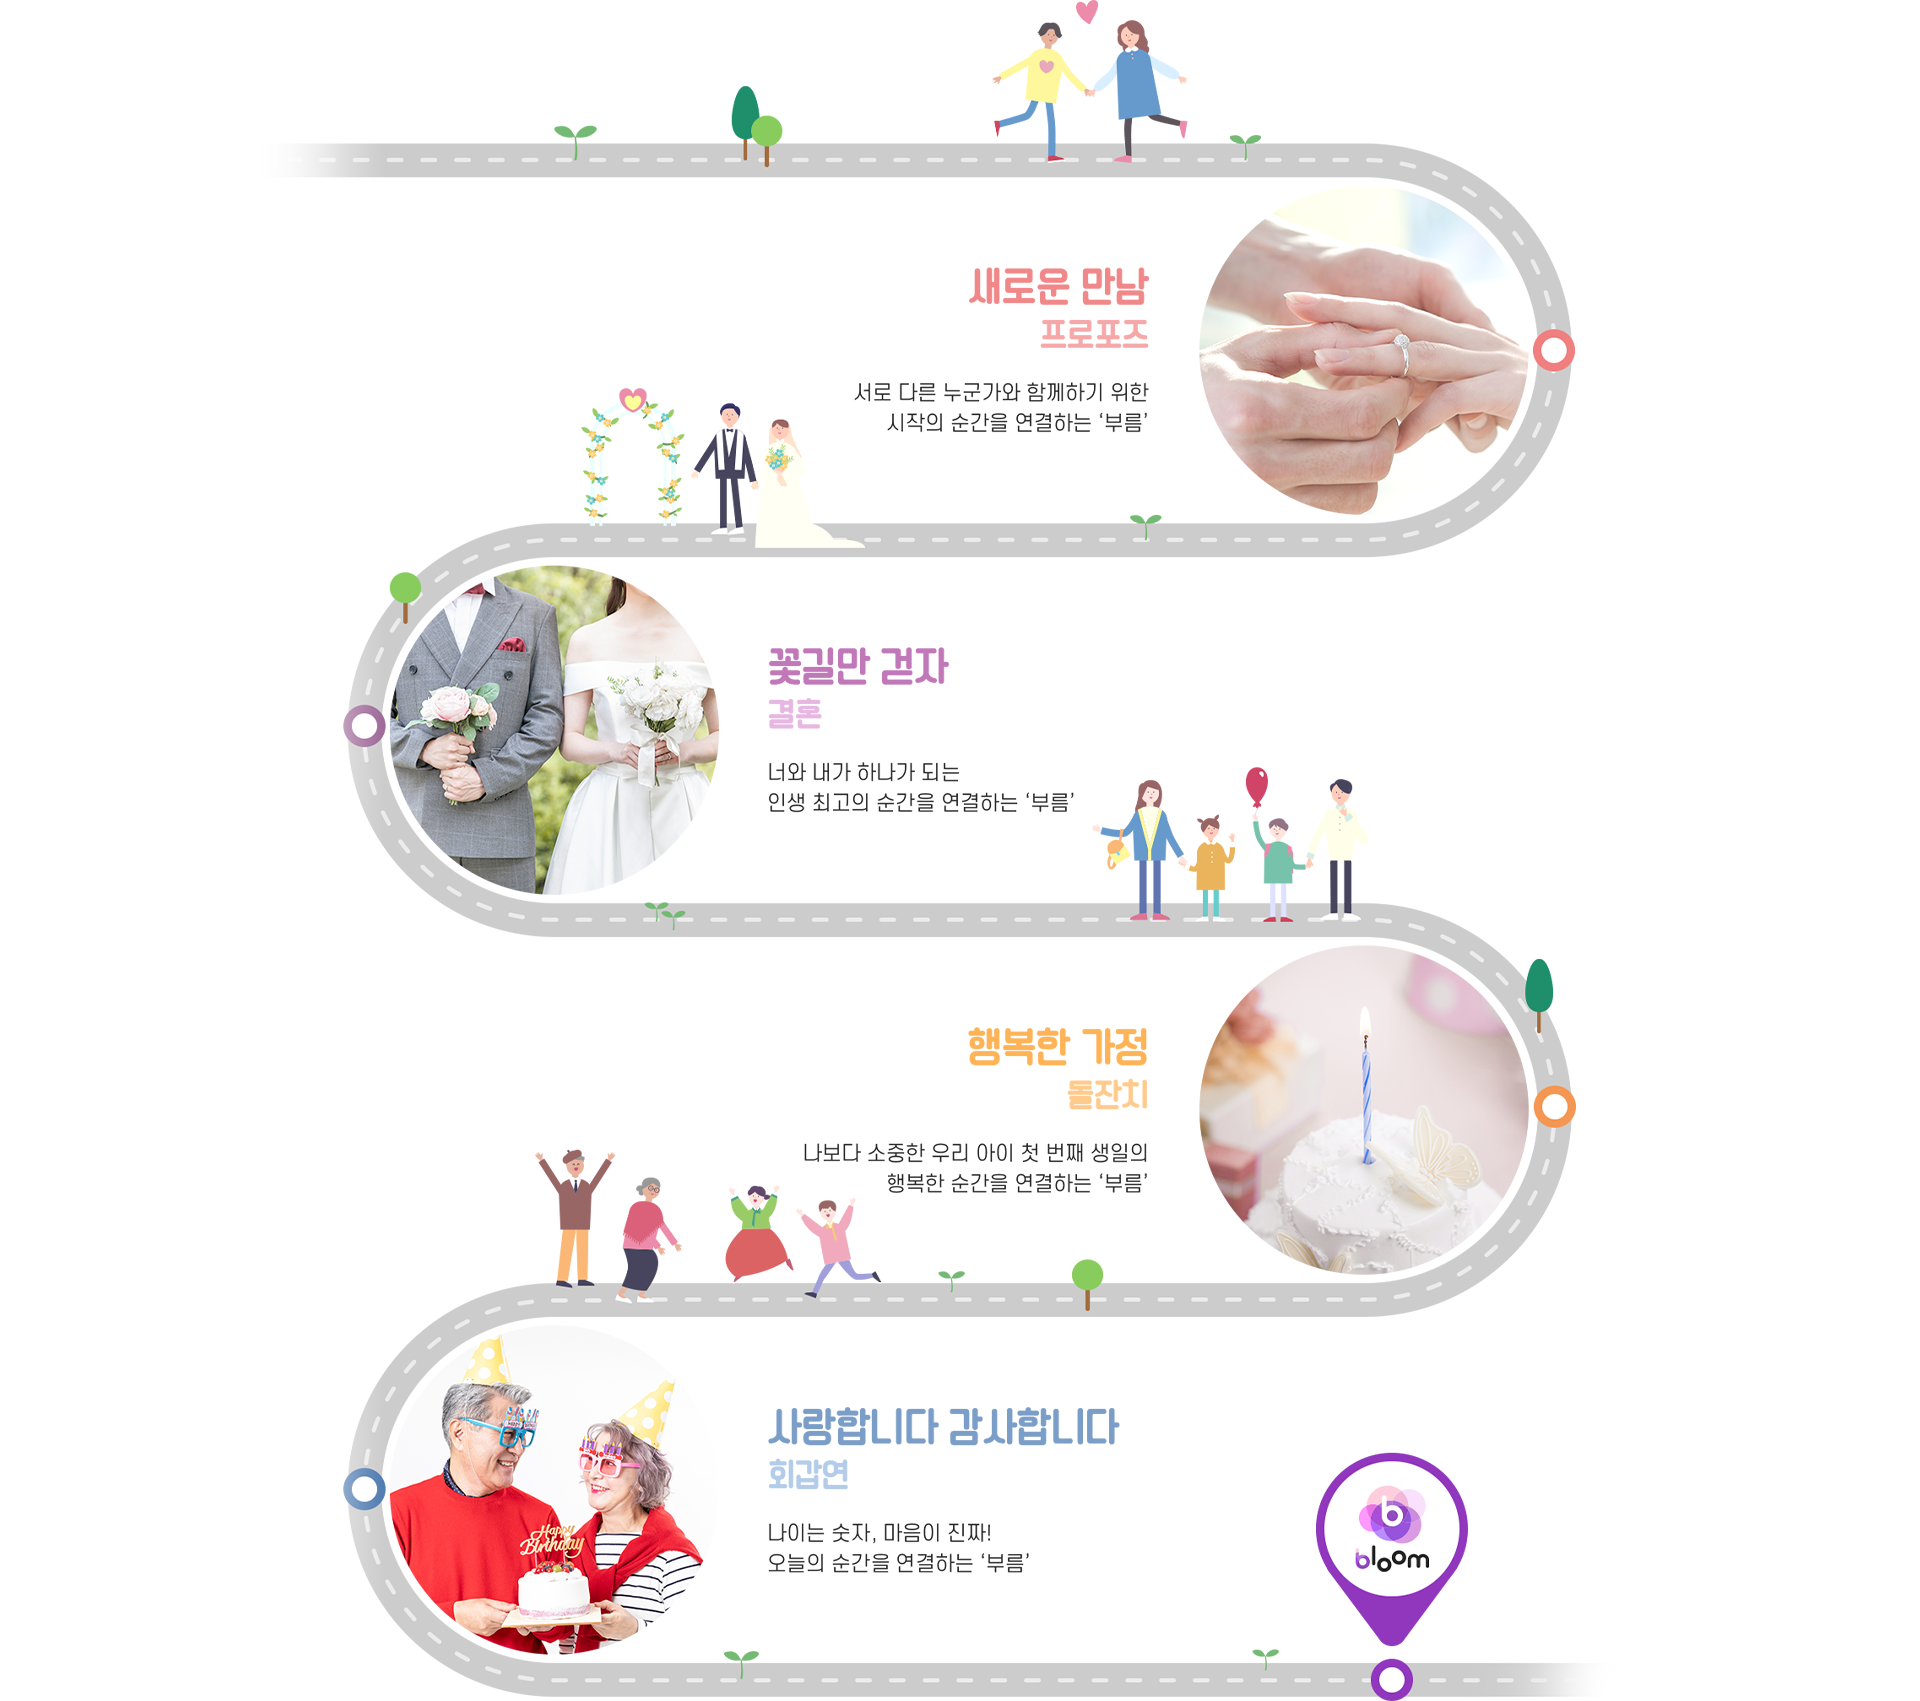
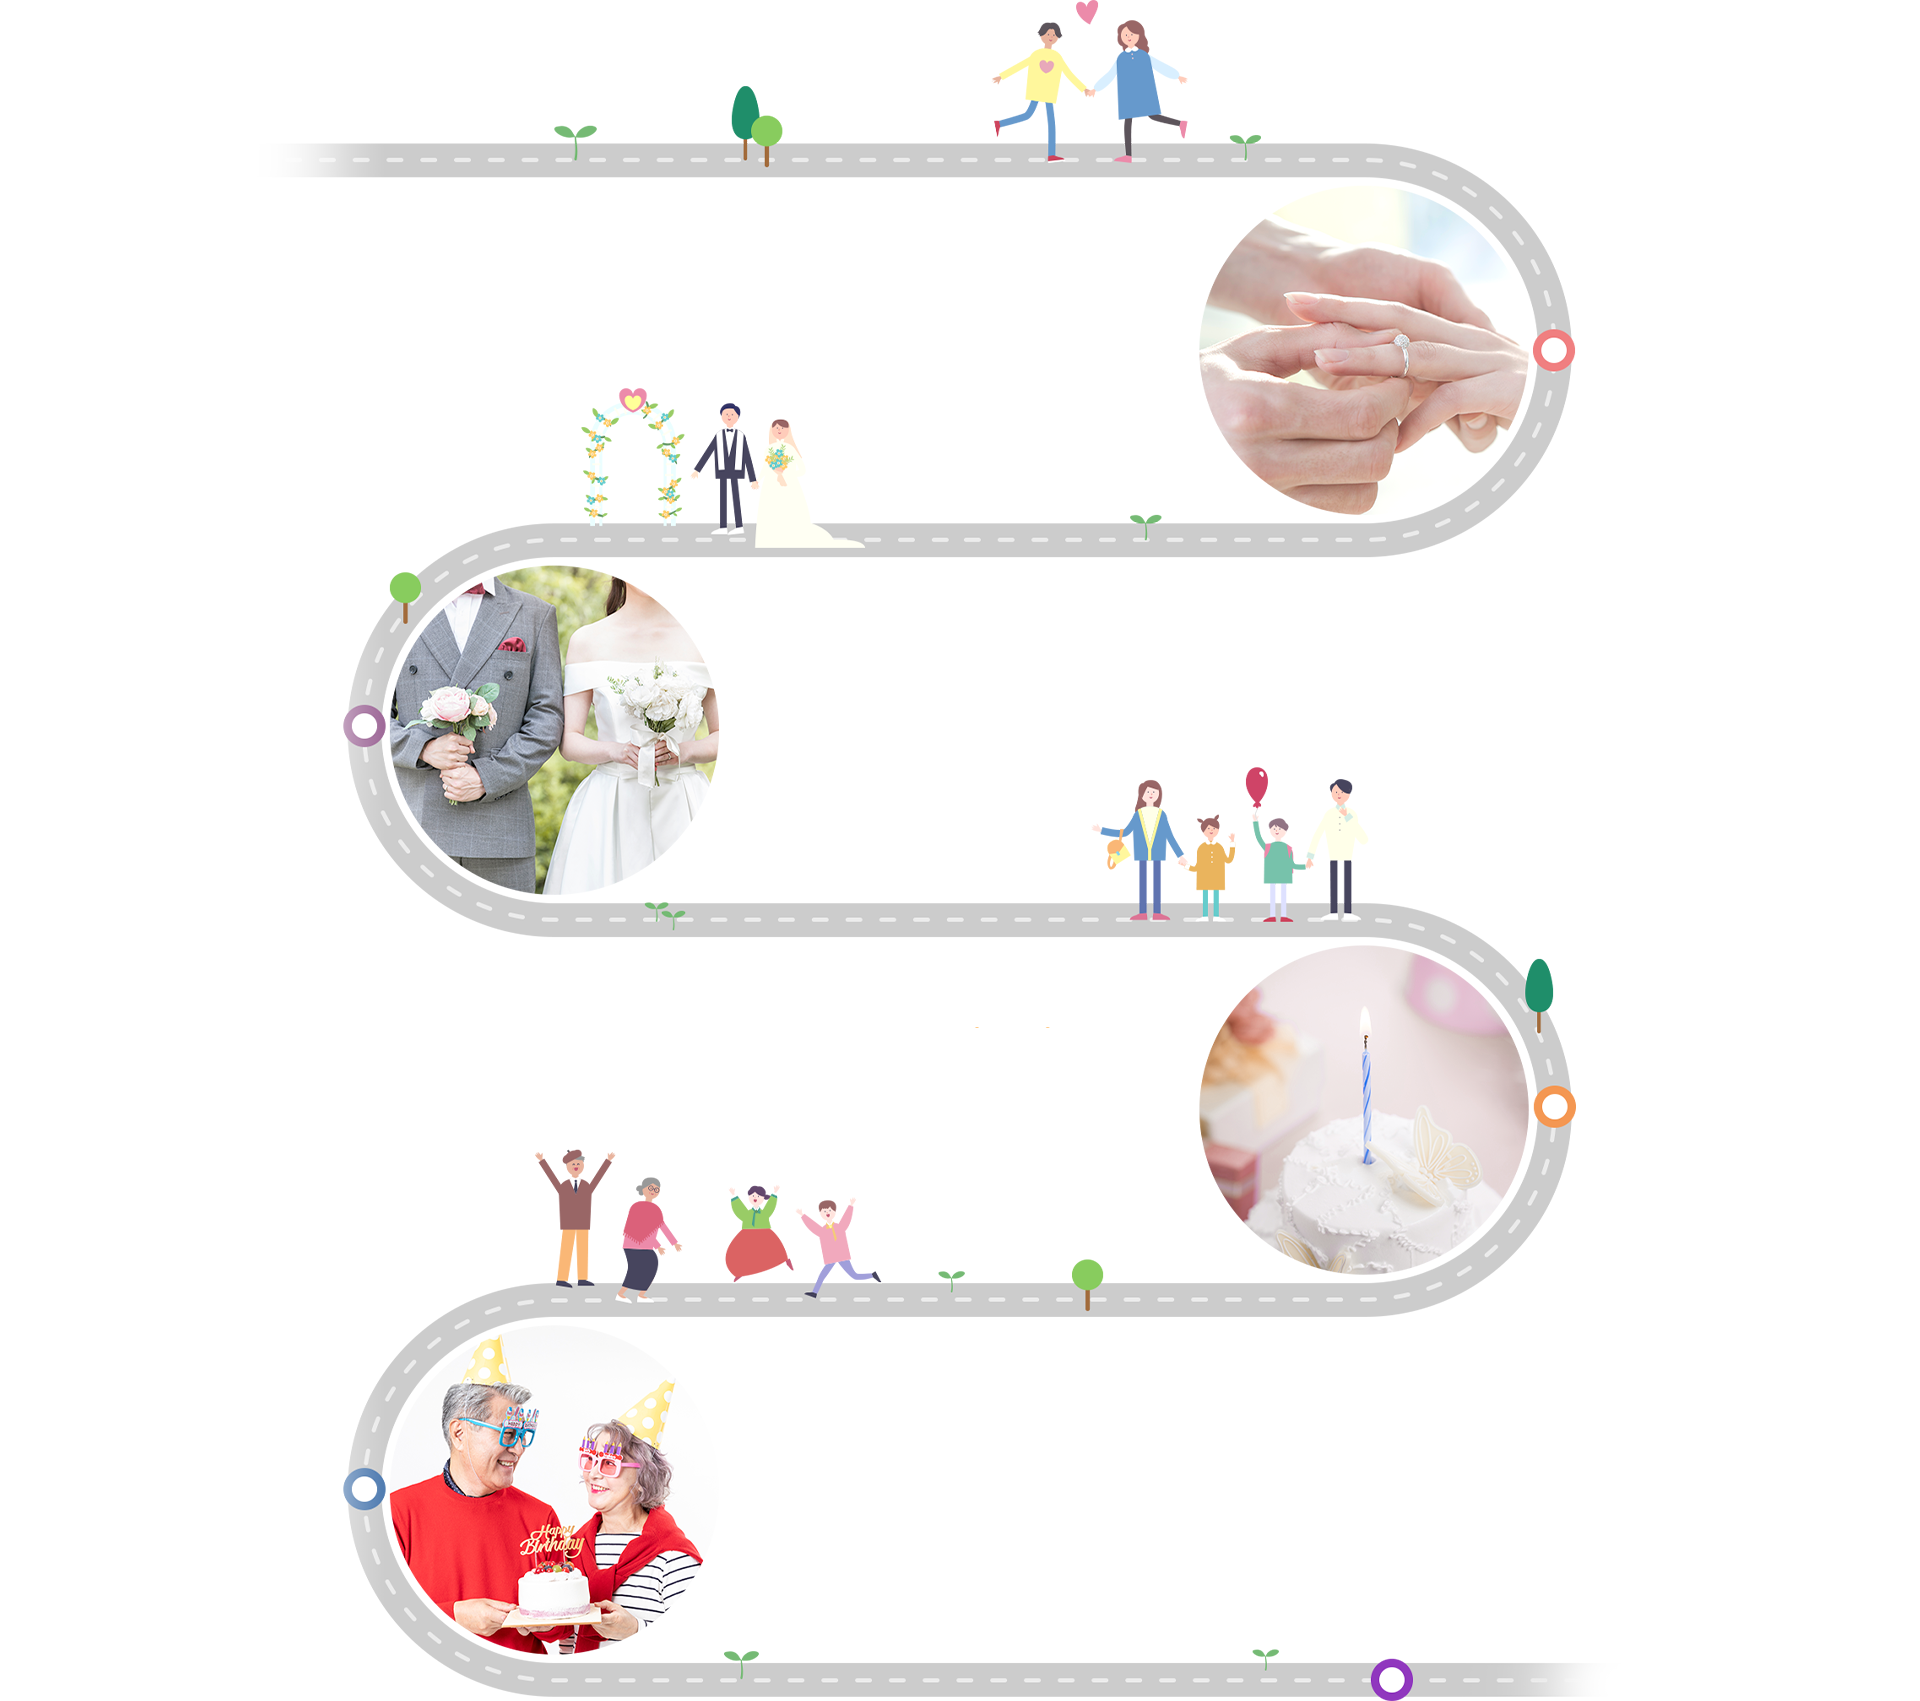
test

diff --git a/index.html b/index.html
@@ -90,7 +90,11 @@
                     </div>
 
                     <ul class="about_list">
-                        <li>
+                        <li 
+                            data-aos="fade-up"
+                            data-aos-delay="300"
+                            data-aos-easing="ease-in-out"
+                        >
                             <img class="list_img" src="img/about_1.png">
                             <span>As one wants</span>
                             <img class="line" src="img/line.png">
@@ -100,7 +104,11 @@
                                 서비스를 준비합니다.<br>
                             </p>
                         </li>
-                        <li>
+                        <li
+                            data-aos="fade-up"
+                            data-aos-delay="400"
+                            data-aos-easing="ease-in-out"
+                        >
                             <img class="list_img" src="img/about_2.png">
                             <span>Direct Design</span>
                             <img class="line" src="img/line.png">
@@ -111,7 +119,11 @@
                                 만들어 낼 수 있습니다.<br>
                             </p>
                         </li>
-                        <li>
+                        <li
+                            data-aos="fade-up"
+                            data-aos-delay="500"
+                            data-aos-easing="ease-in-out"
+                        >
                             <img class="list_img" src="img/about_3.png">
                             <span>My own world</span>
                             <img class="line" src="img/line.png">
@@ -121,7 +133,11 @@
                                 세상을 만들겠습니다.<br>
                             </p>
                         </li>
-                        <li>
+                        <li
+                            data-aos="fade-up"
+                            data-aos-delay="600"
+                            data-aos-easing="ease-in-out"
+                        >
                             <img class="list_img" src="img/about_4.png">
                             <span>We are</span>
                             <img class="line" src="img/line.png">
@@ -135,7 +151,7 @@
                 </div> <!-- e: about -->
 
                 <div class="made box_width">
-                    <div class="title_box">
+                    <div class="title_box" data-500="left:-100px;opacity:0" data-1000="left:0px;opacity:1">
                         <p class="sub">a once in a lifetime</p>
                         <h2 class="title">Made with Bloom</h2>
                         <img src="img/leaf.png">
@@ -146,7 +162,7 @@
                             지원하고 함께하는 플랫폼 입니다.<br>
                         </div>
                     </div>
-                    <div class="made_img">
+                    <div class="made_img" data-500="top:500px;opacity:0" data-700="top:96px;opacity:1" data-2100="top:-0px;">
                         <img src="img/made.jpg">
                     </div>
                 </div> <!-- e: made -->
@@ -155,8 +171,22 @@
                         <p class="sub">Circle of Life</p>
                         <h2 class="title">인생을 살아가는 평범한 우리 이야기</h2>
                     </div>
-                    <div class="story_img">
-                        <img src="img/story.png">
+                    <div class="story_img" data-1350="opacity:0;top:500px" data-1600="opacity:1;top:0">
+                        <div data-1700="left:1000px;opacity:0" data-2000="left:850px;opacity:1">
+                            <img src="img/story01.png" />
+                        </div>
+                        <div data-2030="left:500px;opacity:0" data-2300="left:768px;opacity:1">
+                            <img src="img/story02.png" />
+                        </div>
+                        <div data-2300="left:1000px;opacity:0" data-2830="left:800px;opacity:1">
+                            <img src="img/story03.png" />
+                        </div>
+                        <div data-2900="left:500px;opacity:0" data-3150="left:767;opacity:1">
+                            <img src="img/story04.png" />
+                        </div>
+                        <div data-3150="bottom:0px;opacity:0" data-3450="top:1453px;opacity:1">
+                            <img src="img/story05.png" />
+                        </div>
                     </div>
                 </div> <!-- e: story -->
             </div> <!-- section -->
@@ -179,7 +209,7 @@
                 </div>
             </div>  e: service -->
 
-            <div class="bloom box_width">
+            <div class="bloom box_width" data-3200="margin-top:1000px" data-3500="margin-top:0;">
                 <div class="title_box">
                     <p class="sub">소중한 사람들과 행복한 시간</p>
                     <h2 class="title">'부름'에서 연결해 드립니다</h2>
@@ -187,37 +217,61 @@
                 </div>
 
                 <ul class="bloom_list">
-                    <li>
+                    <li
+                        data-aos="fade-up"
+                        data-aos-delay="200"
+                        data-aos-easing="ease-in-out"
+                    >
                         <img src="img/wedding.jpg">
                         <div class="bloom_text">
                             Wedding
                         </div>
                     </li>
-                    <li>
+                    <li
+                        data-aos="fade-up"
+                        data-aos-delay="300"
+                        data-aos-easing="ease-in-out"
+                    >
                         <img src="img/party.jpg">
                         <div class="bloom_text">
                             Party
                         </div>
                     </li>
-                    <li>
+                    <li
+                        data-aos="fade-up"
+                        data-aos-delay="400"
+                        data-aos-easing="ease-in-out"
+                    >
                         <img src="img/meeting.jpg">
                         <div class="bloom_text">
                             Meeting
                         </div>
                     </li>
-                    <li>
+                    <li
+                        data-aos="fade-up"
+                        data-aos-delay="500"
+                        data-aos-easing="ease-in-out"
+                    >
                         <img src="img/restaurant.jpg">
                         <div class="bloom_text">
                             Restaurant
                         </div>
                     </li>
-                    <li>
+                    <li
+                        data-aos="fade-up"
+                        data-aos-delay="500"
+                        data-aos-easing="ease-in-out"
+                    >
                         <img src="img/event.jpg">
                         <div class="bloom_text">
                             Event
                         </div>
                     </li>
-                    <li>    
+                    <li
+                        data-aos="fade-up"
+                        data-aos-delay="600"
+                        data-aos-easing="ease-in-out"
+                    >    
                         <p>
                             Preparing<br>
                             Category
@@ -228,7 +282,11 @@
                             Preparing
                         </div>
                     </li>
-                    <li>
+                    <li
+                        data-aos="fade-up"
+                        data-aos-delay="700"
+                        data-aos-easing="ease-in-out"
+                    >
                         <p>
                             Preparing<br>
                             Category
@@ -238,7 +296,11 @@
                             Preparing
                         </div>
                     </li>
-                    <li>
+                    <li
+                        data-aos="fade-up"
+                        data-aos-delay="800"
+                        data-aos-easing="ease-in-out"
+                    >
                         <p>
                             Preparing<br>
                             Category
@@ -279,9 +341,9 @@
                 </div>
             </div>  e: history -->
 
-            <div class="app_wrap wrap_width">
+            <div class="app_wrap wrap_width" data-4500="margin-top:500px;" data-4900="margin-top:0;">
                 <div class="app box_width">
-                    <div class="title_box">
+                    <div class="title_box" data-4700="right:-1000px;opacity:0" data-5000="right:0;opacity:1" style="position:absolute">
                         <p class="sub">introduce App</p>
                         <h2 class="title">'Bloom' Application</h2>
                         
@@ -324,16 +386,21 @@
             <div class="rights">© 2020 <span>NAMOK</span> . All Rights Reserved</div>
         </footer> <!-- e: footer -->
     </div> <!-- e: wrap -->
+    <link href="https://unpkg.com/aos@2.3.1/dist/aos.css" rel="stylesheet">
+    <script src="https://unpkg.com/aos@2.3.1/dist/aos.js"></script>
+    <script type="text/javascript" src="https://cdnjs.cloudflare.com/ajax/libs/skrollr/0.6.30/skrollr.min.js"></script>
     <script>
         $(document).ready(function(){
             $('.img_wrap').slick({
                 arrows: false,
                 autoplay: true,
                 dots: false,
-                slidesToShow: 1,
                 prevArrow:false,
                 nextArrow:false,
+                autoplaySpeed: 2000,
             });
+            var s = skrollr.init();
+            AOS.init();
         })
     </script>
 </body>

diff --git a/css/main.css b/css/main.css
@@ -105,5 +105,41 @@
 .story .sub {color: #91ad41;}
 .story .title {font-size: 20px; font-weight: normal;}
 
-.story_img {display:block; width: 1920px; height: 1701px; margin-top: 64px; margin-bottom: 96px; margin:64px auto 96px auto}
+.story_img {
+    display:block; 
+    position: relative;
+    width: 1920px; 
+    height: 1701px; 
+    margin-top: 64px; 
+    margin-bottom: 96px; 
+    margin:64px auto 96px auto;
+    background: url('../img/story.png') no-repeat;
+}
+.story_img div:nth-child(1){
+    position:absolute;
+    left:850px;
+    top:265px;
+}
+.story_img div:nth-child(2){
+    position:absolute;
+    left:768px;
+    top:648px;
+}
+.story_img div:nth-child(3){
+    position:absolute;
+    left:800px;
+    top:1028px;
+}
+.story_img div:nth-child(4){
+    position:absolute;
+    left:767px;
+    top:1407px;
+}
+.story_img div:nth-child(5){
+    position:absolute;
+    left:1314px;
+    top:1453px;
+}
+/*
 .story_img img {display: block; width: 1920px; height: 1701px;}
+*/

diff --git a/js/ui.js b/js/ui.js
@@ -19,7 +19,10 @@ var mobileKeyWords = new Array('iPhone', 'iPod', 'BlackBerry', 'Android', 'Windo
 }
 
 user 접속여부 확인 */
-
+$(window).scroll(function () {
+    var height = $(document).scrollTop();
+    console.log(height)
+}); 
 $(document).ready(function(){
     $('.top_btn').click(function(){
         $("html, body").animate({ scrollTop: 0 }, "slow");
